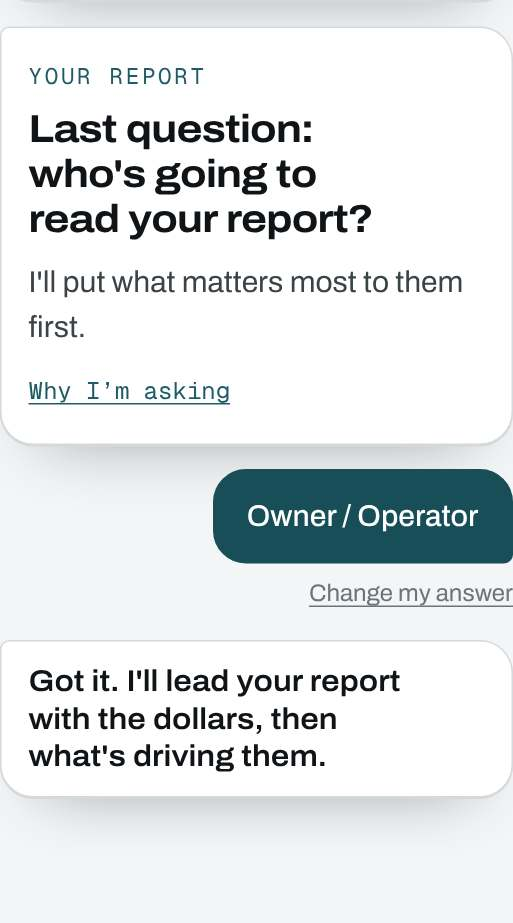
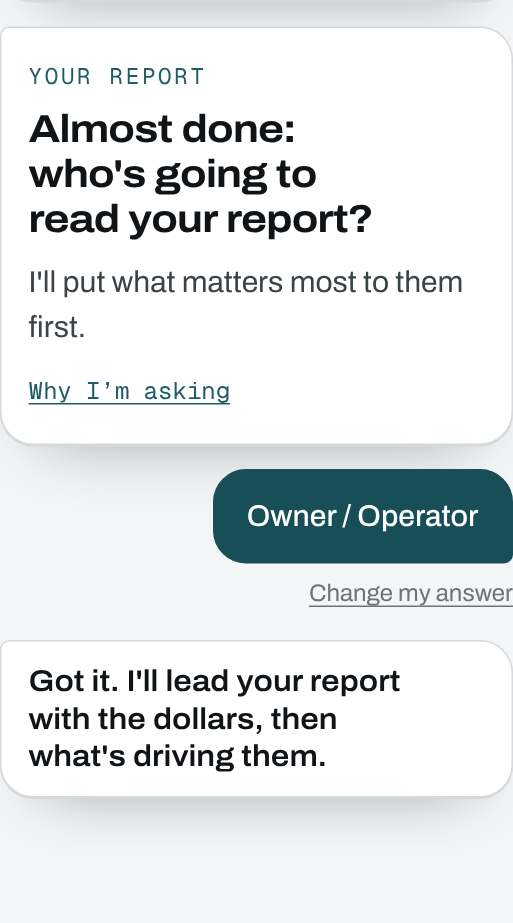
Watt: fixes from Bryn's test (straddling bill range, honest FAQ, steady rates, name kept on reload, upload page accepts monthly bills)
Claude-Session: https://claude.ai/code/session_01LfCeLidvVX36Pf8KB3LPn7

Changed region(s): [[0.0624, 0.1213, 0.6238, 0.182]]

diff --git a/walkthrough/app.js b/walkthrough/app.js
@@ -451,7 +451,7 @@
       var nums = b.querySelectorAll("[data-count]"), bar = b.querySelector(".bars, .cmp, .shown svg, .shown canvas");
       function go() {
         fillBars(b);
-        nums.forEach(function (el) { var v = parseFloat(el.dataset.count), f = el.dataset.fmt; countUp(el, v, f === "cents" ? function (x) { return x.toFixed(2) + "¢"; } : f === "pct" ? function (x) { return (x >= 0 ? "+" : "") + x.toFixed(1) + "%"; } : kmoney); });
+        nums.forEach(function (el) { var v = parseFloat(el.dataset.count), f = el.dataset.fmt; if (f === "cents") { el.textContent = v.toFixed(2) + "\u00a2"; return; } countUp(el, v, f === "cents" ? function (x) { return x.toFixed(2) + "¢"; } : f === "pct" ? function (x) { return (x >= 0 ? "+" : "") + x.toFixed(1) + "%"; } : kmoney); });
       }
       var target = nums[0] || bar;
       if (target && window.Watt) Watt.fly(target, go); else go();
@@ -564,7 +564,7 @@
   var ASKS = [
     ["What&rsquo;s a demand charge?", "It&rsquo;s a charge for your busiest 15 minutes of the month.", "Your utility bills you once for the power you use, and again for the single busiest 15 minutes of the month. It&rsquo;s like a speeding ticket priced on your top speed, not your average. It&rsquo;s one of the easiest parts of a bill to bring down."],
     ["Who are you, Watt?", "I&rsquo;m the Energy+ AI.", "I find where your building is overspending on power. A real engineer, Cliff Suljak, checks every number before anything is installed."],
-    ["Is this a sales pitch?", "It&rsquo;s a free estimate first.", "You&rsquo;ll see your numbers before anyone asks you for anything. If you want to go further, Dan sets up a short call, and nothing is installed until Cliff verifies it on your building."],
+    ["Is this a sales pitch?", "It&rsquo;s a free estimate first.", "You&rsquo;ll see what I found before I ask for anything, and all I ask is a first name and mobile so Dan can text you a copy of the report. If you want to go further, Dan sets up a short call, and nothing is installed until Cliff verifies it on your building."],
     ["How do projects get paid for?", "Usually out of the savings.", "Projects are structured to be cash-flow positive from day one where the numbers support it, so you aren&rsquo;t writing a big check up front. Dan walks through the details on the call."],
     ["Where do your numbers come from?", "Public data, plus our own field results.", "Rates and how buildings use power come from the U.S. Energy Department. Savings ranges come from Energy Plus programs, including 150+ of our own HVAC tests. Your answers decide where in the range you land."],
     ["What is dirty power?", "Electricity roughed up by your own equipment.", "Motors and electronics send jagged power back through your wiring. It wastes electricity you pay for and wears equipment out early."]
@@ -765,7 +765,7 @@
   }
   function role() {
     at("role");
-    question({ whyKey: "role", step: 10 + S.path.length, eyebrow: "Your report", q: "Last question: who's going to read your report?", sub: "I'll put what matters most to them first.", opts: ROLES, chip: function (k, l) { return "Report for: " + l; },
+    question({ whyKey: "role", step: 10 + S.path.length, eyebrow: "Your report", q: "Almost done: who's going to read your report?", sub: "I'll put what matters most to them first.", opts: ROLES, chip: function (k, l) { return "Report for: " + l; },
       pick: function (k) { S.role = k; },
       insight: function (k) { return { quiet: true, h: "Got it. " + ROLE_INSIGHT[k].p }; }, next: capture });
   }
@@ -981,7 +981,7 @@
   function demandShareFor(m) { return demandInfo(m).d; }
   function billInsight() {
     var m = S.monthly, di = demandInfo(m), d = di.d, sd = di.sd;
-    if (m * S.locs < QUALIFY_MONTHLY) return { redirect: under };
+    if (Math.max(m, S.monthlyHi || 0) * S.locs <= QUALIFY_MONTHLY && m * S.locs < QUALIFY_MONTHLY) return { redirect: under }; /* a range that reaches past the line qualifies; we keep the number they picked */
     var dPct = Math.round(d * 100), name = EP.states[S.state].name;
     var src = "Based on demand rates at " + name + "'s largest utilities and how a typical " + fac().unit + " uses power through the day." + (di.capped ? " Smaller bills usually carry less, so we scaled it down." : "");
     return { found: true, tag: "Your demand charge", h: "About " + dPct + "% of that bill, roughly " + kmoney(m * d) + " a month, is probably a demand charge.",
@@ -1100,10 +1100,10 @@
     var lo = S.band[0], hi = S.band[1], e = [];
     for (var i = 0; i <= 4; i++) e.push(niceRound(lo * Math.pow(hi / lo, i / 4)));
     var opts = [];
-    for (var j = 0; j < 4; j++) if (e[j + 1] > e[j]) opts.push([String(Math.round(Math.sqrt(e[j] * e[j + 1]))), "$" + fmtK(e[j]) + " to $" + fmtK(e[j + 1])]);
-    opts.push([String(Math.round(Math.sqrt(lo * hi))), "Somewhere in that range"]);
+    for (var j = 0; j < 4; j++) if (e[j + 1] > e[j]) opts.push([Math.round(Math.sqrt(e[j] * e[j + 1])) + ":" + e[j + 1], "$" + fmtK(e[j]) + " to $" + fmtK(e[j + 1])]);
+    opts.push([Math.round(Math.sqrt(lo * hi)) + ":" + hi, "Somewhere in that range"]);
     question({ whyKey: "dial", step: 6, q: "Let's dial that in. Which is closest?", sub: "Between $" + fmtK(lo) + " and $" + fmtK(hi) + " a month.", opts: opts, chip: function (k) { return "About " + kmoney(parseInt(k, 10)) + "/mo per " + fac().unit; },
-      pick: function (k) { S.monthly = parseInt(k, 10); },
+      pick: function (k) { var p = String(k).split(":"); S.monthly = parseInt(p[0], 10); S.monthlyHi = p[1] ? parseInt(p[1], 10) : S.monthly; },
       insight: billInsight, next: afterBill });
   }
   function sizeQ() {
@@ -1235,8 +1235,9 @@
     at("under");
     stage("listen");
     setProgress(TOTAL, "");
-    var n = $('<section class="screen turn">' + ask("Our full program is built for portfolios spending $10K or more a month.", "I don&rsquo;t want to waste your time with a pitch that doesn&rsquo;t fit. Leave your number and we&rsquo;ll reach out as we roll out options sized for you.") + '<div class="field"><label for="u-name">First name</label><input id="u-name" autocomplete="given-name"></div><div class="field"><label for="u-phone">Mobile</label><input id="u-phone" type="tel" inputmode="tel" autocomplete="tel"></div>' + consentHtml("u") + '<div class="err" id="u-err"></div><div class="next" style="justify-content:space-between"><button class="link" id="restart">Start over</button><button class="btn" id="u-go">Keep me posted</button></div></section>');
+    var n = $('<section class="screen turn">' + ask("Our full program is built for portfolios spending $10K or more a month.", "I don&rsquo;t want to waste your time with a pitch that doesn&rsquo;t fit. Leave your number and we&rsquo;ll reach out as we roll out options sized for you.") + '<div class="field"><label for="u-name">First name</label><input id="u-name" autocomplete="given-name" value="' + esc(S.name || "") + '"></div><div class="field"><label for="u-phone">Mobile</label><input id="u-phone" type="tel" inputmode="tel" autocomplete="tel"></div>' + consentHtml("u") + '<div class="err" id="u-err"></div><div class="next" style="justify-content:space-between"><button class="link" id="restart">Start over</button><button class="btn" id="u-go">Keep me posted</button></div></section>');
     n.querySelector("#restart").addEventListener("click", function () { intro(); syncBack(); });
+    n.querySelector("#u-name").addEventListener("input", function (e) { S.name = e.target.value.trim(); save(); });
     n.querySelector("#u-go").addEventListener("click", function () {
       var nm = n.querySelector("#u-name").value.trim(), ph = n.querySelector("#u-phone").value.replace(/\D/g, "");
       if (ph.length < 10) { n.querySelector("#u-err").textContent = "Enter a 10-digit mobile number so we can reach you."; return; }
@@ -1252,7 +1253,8 @@
     setProgress(TOTAL);
     var fs = findings(compute()), F = fac();
     var tease = '<div class="bubble say"><p class="eyebrow">What I found</p><h3>I found ' + fs.length + ' ways your ' + esc(S.locs > 1 ? F.units : F.unit) + ' ' + (S.locs > 1 ? "are" : "is") + ' overspending.</h3><ol class="tease">' + fs.map(function (x) { return "<li>" + esc(x[0]) + "</li>"; }).join("") + '</ol><p>Your report puts a dollar amount on each one' + (function () { var n = payPrograms().length; return n ? ", and shows " + n + (n === 1 ? " program" : " programs") + " that could help pay for it" : ""; })() + '.</p></div>';
-    var n = $('<section class="screen turn">' + tease + ask("Where can Dan text you a copy?", "Your report opens right here. Dan will also text you a copy so it&rsquo;s easy to find and forward." + (isCA() ? "" : " No email, no spam.")) + '<div class="field"><label for="c-name">First name</label><input id="c-name" autocomplete="given-name"></div><div class="field"><label for="c-phone">Mobile</label><input id="c-phone" type="tel" inputmode="tel" autocomplete="tel" placeholder="(555) 555-5555"></div>' + consentHtml("c") + '<div class="err" id="c-err"></div><div class="next"><button class="btn" id="c-go">Show my diagnostic <span class="ar">&rarr;</span></button></div></section>');
+    var n = $('<section class="screen turn">' + tease + ask("Where can Dan text you a copy?", "Your report opens right here. Dan will also text you a copy so it&rsquo;s easy to find and forward." + (isCA() ? "" : " No email, no spam.")) + '<div class="field"><label for="c-name">First name</label><input id="c-name" autocomplete="given-name" value="' + esc(S.name || "") + '"></div><div class="field"><label for="c-phone">Mobile</label><input id="c-phone" type="tel" inputmode="tel" autocomplete="tel" placeholder="(555) 555-5555"></div>' + consentHtml("c") + '<div class="err" id="c-err"></div><div class="next"><button class="btn" id="c-go">Show my diagnostic <span class="ar">&rarr;</span></button></div></section>');
+    n.querySelector("#c-name").addEventListener("input", function (e) { S.name = e.target.value.trim(); save(); });
     n.querySelector("#c-go").addEventListener("click", function () {
       var nm = n.querySelector("#c-name").value.trim(), ph = n.querySelector("#c-phone").value.replace(/\D/g, "");
       if (!nm) { n.querySelector("#c-err").textContent = "Add your first name so the report is addressed to you."; return; }

diff --git a/walkthrough/project/project.js b/walkthrough/project/project.js
@@ -55,7 +55,7 @@
   function render() {
     var first = P.name ? P.name + ", here" : "Here";
     $("#title").textContent = first + "'s your savings plan";
-    $("#lead").textContent = "Two things turn your estimate" + (P.estimate ? " (" + P.estimate + ")" : "") + " into real numbers for your " + (P.facility ? P.facility.split(" /")[0].toLowerCase() : "building") + ". Add them anytime, from your phone or computer.";
+    $("#lead").textContent = "Two things turn your estimate" + (P.estimate ? " (" + P.estimate + ")" : "") + " into real numbers for your " + (P.facility ? P.facility.split(" /")[0].toLowerCase() : "building") + ". Add them anytime, from your phone or computer. Dan reads every file you send and texts you when your numbers are updated.";
     var html =
       '<section class="step" id="s-interval"><div class="sh"><span class="num">1</span><div><p class="tagline">Required</p><h2>Your meter&rsquo;s 15-minute data</h2></div></div>' +
       '<p class="why">Your meter records your power use every 15 minutes. It shows exactly when your busiest 15 minutes happen, which is how we size your peak demand savings.</p>' +
@@ -65,7 +65,8 @@
       '<div class="row"><button class="btn" id="go" type="button">Connect</button></div><div id="cstate" aria-live="polite"></div></div>' +
       '<p class="or">or upload the file</p>' +
       '<ol class="how"><li>Log in to your electric utility&rsquo;s website, the one that sends your bill.</li><li>Look for <b>Usage</b>, <b>Energy use</b>, or <b>Green Button: Download My Data</b>.</li><li>Download <b>15-minute</b> (or hourly) data for the <b>last 12 months</b>.</li>' + (/Texas/.test(P.state || "") ? '<li>In Texas, most areas get it from <b>Smart Meter Texas</b> at smartmetertexas.com.</li>' : "") + '</ol>' +
-      dropzone("interval", "Upload your usage file", "Spreadsheet, CSV, PDF or zip", ".csv,.xlsx,.xls,.xml,.zip,.pdf,.txt,.json") +
+      '<p class="msg">Only have monthly bills? Send the last 12 instead. They help too, and Dan will tell you if the 15-minute file would change your numbers.</p>' +
+      dropzone("interval", "Upload your usage file", "15-minute data or monthly bills: spreadsheet, CSV, PDF or zip", ".csv,.xlsx,.xls,.xml,.zip,.pdf,.txt,.json") +
       "</section>" +
       '<section class="step" id="s-hvac"><div class="sh"><span class="num">2</span><div><p class="tagline">Required</p><h2>Your HVAC equipment</h2></div></div>' +
       '<p class="why">Make, model, size and age of each unit tell us how much your system can save.</p>' +

diff --git a/walkthrough/index.html b/walkthrough/index.html
@@ -703,9 +703,9 @@ html.big #app,html.big .dock .wrap,html.big .ask-in{zoom:1.16}
         <h4>16. Professional history and credentials</h4>
         <p>Biographical and credential statements reflect documented professional history. Supporting documentation is available for verification on request.</p>
         <p><strong>Questions.</strong> For questions about these disclosures or any statement in our materials, contact Energy Plus at <a href="mailto:dan@yourenergyplus.com">dan@yourenergyplus.com</a> or <a href="tel:+18647770688">(864) 777-0688</a>.</p></template>
-<script src="engine/constants.js?v=202611121030"></script>
-<script src="engine/engine.js?v=202611121030"></script>
-<script src="watt.js?v=202611121030"></script>
-<script src="app.js?v=202611121030"></script>
+<script src="engine/constants.js?v=202611121300"></script>
+<script src="engine/engine.js?v=202611121300"></script>
+<script src="watt.js?v=202611121300"></script>
+<script src="app.js?v=202611121300"></script>
 </body>
 </html>

diff --git a/walkthrough/project/index.html b/walkthrough/project/index.html
@@ -85,6 +85,6 @@ input.t{width:100%;font:inherit;font-size:18px;padding:12px 14px;border:1.5px so
 </div></header>
 <main class="wrap" id="main"></main>
 <script src="../watt.js?v=202611111110"></script>
-<script src="project.js?v=202611111110"></script>
+<script src="project.js?v=202611121300"></script>
 </body>
 </html>
